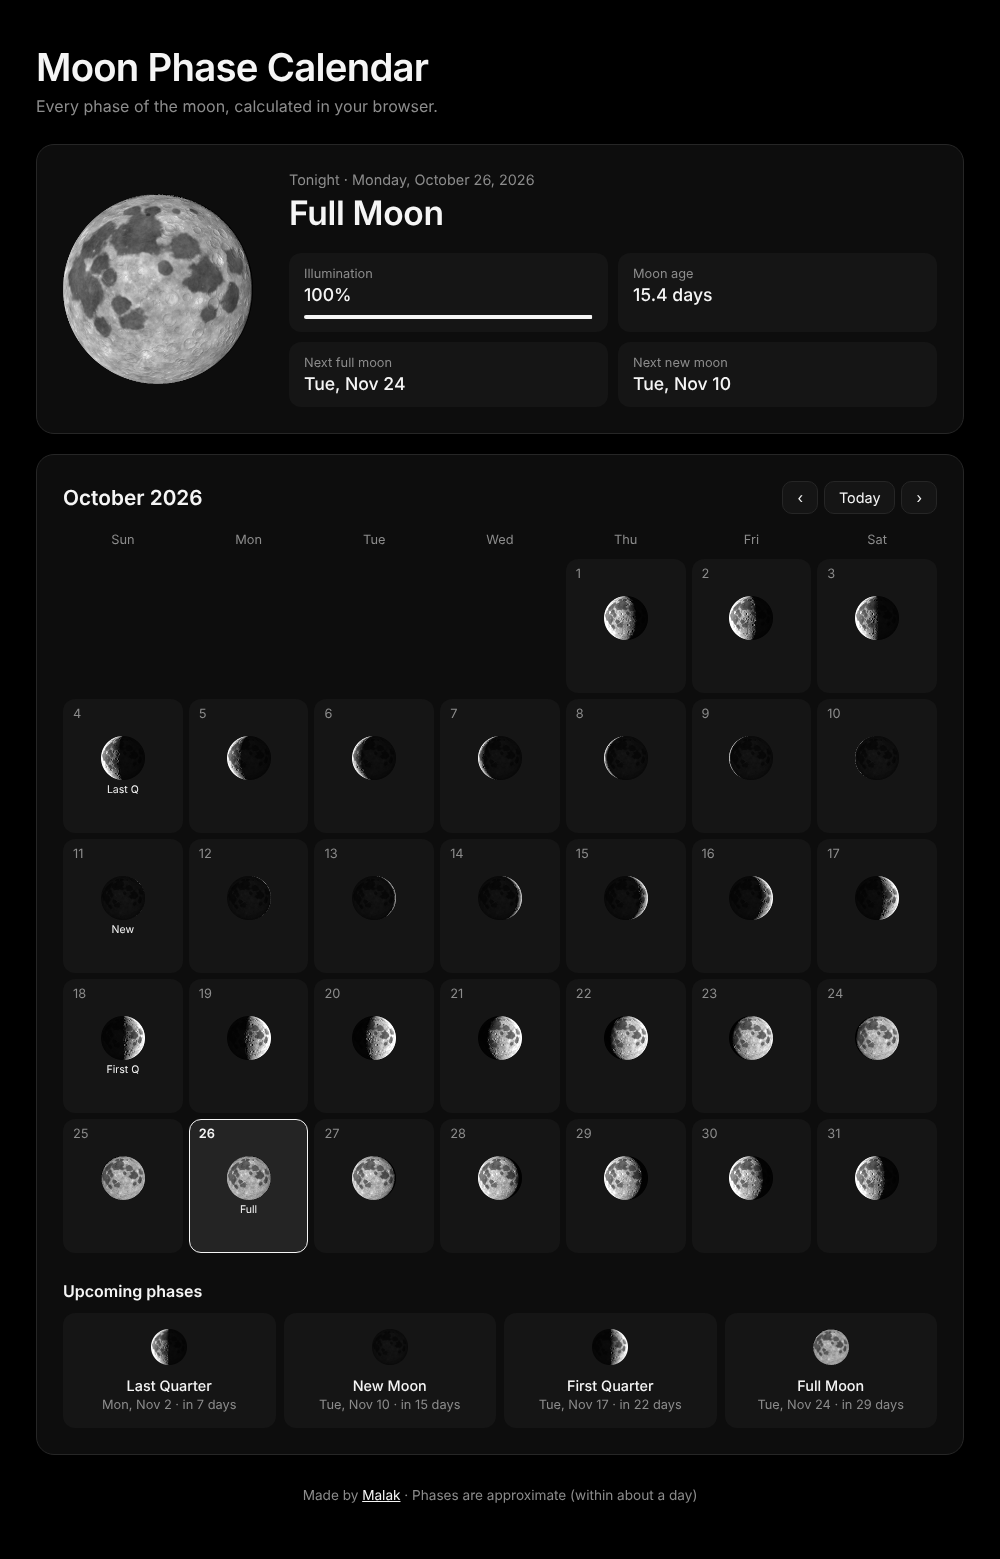
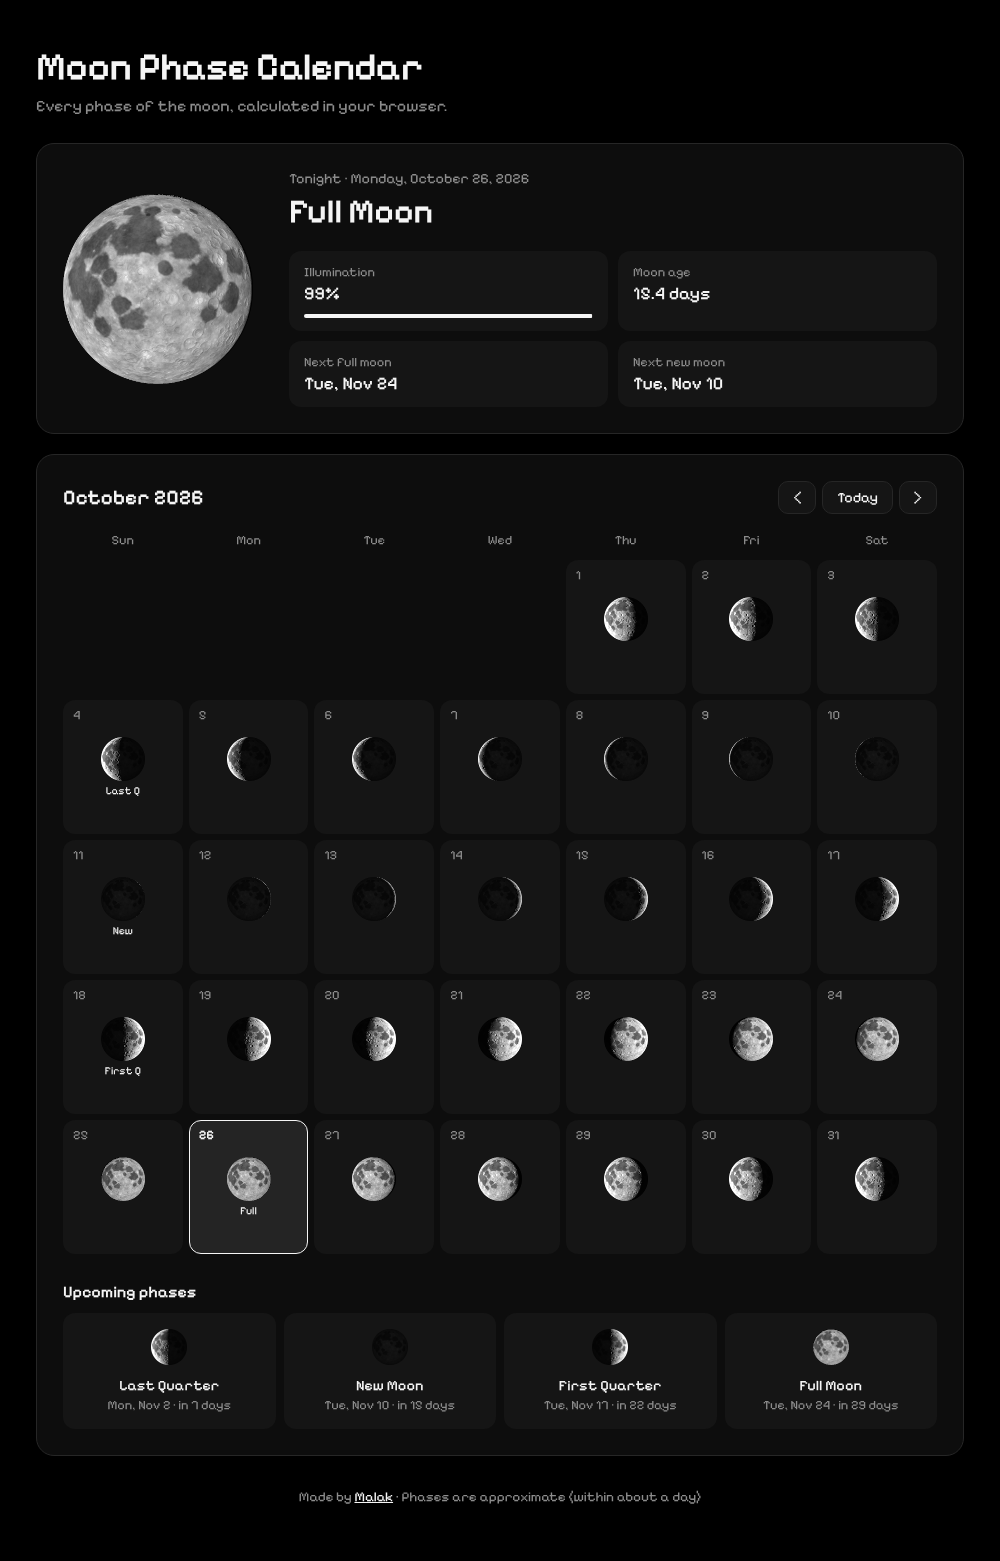
v1.1.0: pixel font, follows the user's clock (midnight, wake, time zone)
Claude-Session: https://claude.ai/code/session_01NMGxaikXEgU81ymDHPEkG5

diff --git a/widget.html b/widget.html
@@ -5,6 +5,12 @@
 <meta name="viewport" content="width=device-width, initial-scale=1.0">
 <title>Moon Phase</title>
 <style>
+  @font-face {
+    font-family: 'Pixelify Sans';
+    src: url('assets/fonts/PixelifySans.woff2') format('woff2');
+    font-weight: 400 700;
+    font-display: block;
+  }
   :root {
     --bg: #0b0b0b;
     --cell: #171717;
@@ -15,9 +21,9 @@
   * { box-sizing: border-box; margin: 0; padding: 0; }
   html, body { height: 100%; background: transparent; overflow: hidden; }
   body {
-    font-family: -apple-system, BlinkMacSystemFont, "Segoe UI", "Helvetica Neue", Arial, sans-serif;
+    font-family: 'Pixelify Sans', -apple-system, "Segoe UI", Arial, sans-serif;
     color: var(--text);
-    -webkit-font-smoothing: antialiased;
+    -webkit-font-smoothing: none;
     user-select: none;
     -webkit-user-select: none;
   }
@@ -33,28 +39,28 @@
     -webkit-app-region: drag;
   }
   .top { display: flex; justify-content: space-between; align-items: baseline; font-size: 12px; color: var(--muted); }
-  .top b { color: var(--text); font-weight: 600; font-size: 13px; }
+  .top b { color: var(--text); font-weight: 600; font-size: 15px; }
 
   .main { display: flex; align-items: center; gap: 16px; margin-top: 14px; }
   .main canvas { width: 96px; height: 96px; flex-shrink: 0; }
-  .phase { font-size: 19px; font-weight: 600; letter-spacing: -0.01em; line-height: 1.2; }
-  .illum { font-size: 13px; color: var(--muted); margin-top: 4px; }
+  .phase { font-size: 22px; font-weight: 600; letter-spacing: -0.01em; line-height: 1.2; }
+  .illum { font-size: 14px; color: var(--muted); margin-top: 4px; }
   .bar { height: 3px; border-radius: 3px; background: #2a2a2a; margin-top: 8px; overflow: hidden; }
   .bar > div { height: 100%; background: var(--text); }
 
   .rows { margin-top: 16px; display: grid; gap: 6px; }
-  .row { display: flex; justify-content: space-between; background: var(--cell); border-radius: 10px; padding: 8px 12px; font-size: 13px; }
+  .row { display: flex; justify-content: space-between; background: var(--cell); border-radius: 10px; padding: 8px 12px; font-size: 14px; }
   .row span:last-child { color: var(--muted); }
 
   .week { display: grid; grid-template-columns: repeat(7, 1fr); margin-top: 14px; text-align: center; }
-  .week div { font-size: 11px; color: var(--muted); }
+  .week div { font-size: 12px; color: var(--muted); }
   .week canvas { width: 22px; height: 22px; display: block; margin: 5px auto 0; }
   .week .today { color: var(--text); font-weight: 600; }
 
   .foot { margin-top: auto; padding-top: 12px; display: flex; justify-content: center; }
   .foot button {
     -webkit-app-region: no-drag;
-    font: inherit; font-size: 12px; color: var(--text); background: var(--cell);
+    font: inherit; font-size: 13px; color: var(--text); background: var(--cell);
     border: 1px solid var(--border); border-radius: 8px; padding: 5px 12px; cursor: pointer;
   }
   .foot button:hover { border-color: var(--muted); }
@@ -130,9 +136,33 @@ document.addEventListener('contextmenu', e => {
   if (window.moonWidget) { e.preventDefault(); window.moonWidget.showMenu(); }
 });
 
+// ---------- Keep in step with the user's own clock ----------
+// Everything above uses the computer's local date and time zone.
+const clockKey = () => {
+  const n = new Date();
+  return `${n.toDateString()}|${n.getTimezoneOffset()}|${Intl.DateTimeFormat().resolvedOptions().timeZone}`;
+};
+let lastKey = clockKey();
+
 render();
-setInterval(render, 10 * 60 * 1000);                    // refresh every 10 minutes
-document.addEventListener('visibilitychange', () => { if (!document.hidden) render(); });
+
+// Check every 30 seconds: a new day, a clock change, or a new time zone triggers a redraw
+setInterval(() => {
+  const key = clockKey();
+  if (key !== lastKey) { lastKey = key; render(); }
+}, 30 * 1000);
+
+// Redraw exactly at local midnight, then every night after
+function scheduleMidnight() {
+  const n = new Date();
+  const next = new Date(n.getFullYear(), n.getMonth(), n.getDate() + 1, 0, 0, 5);
+  setTimeout(() => { lastKey = clockKey(); render(); scheduleMidnight(); }, next - n);
+}
+scheduleMidnight();
+
+// Also refresh every 10 minutes (countdowns), and whenever the widget comes back into view
+setInterval(render, 10 * 60 * 1000);
+document.addEventListener('visibilitychange', () => { if (!document.hidden) { lastKey = clockKey(); render(); } });
 </script>
 </body>
 </html>

diff --git a/index.html b/index.html
@@ -6,6 +6,12 @@
 <title>Moon Phase Calendar</title>
 <meta name="description" content="See tonight's moon phase and a full monthly moon calendar, calculated right in your browser.">
 <style>
+  @font-face {
+    font-family: 'Pixelify Sans';
+    src: url('assets/fonts/PixelifySans.woff2') format('woff2');
+    font-weight: 400 700;
+    font-display: block;
+  }
   :root {
     --bg: #000000;
     --panel: #0d0d0d;
@@ -16,12 +22,12 @@
   }
   * { box-sizing: border-box; margin: 0; padding: 0; }
   body {
-    font-family: -apple-system, BlinkMacSystemFont, "Segoe UI", "Helvetica Neue", Arial, sans-serif;
+    font-family: 'Pixelify Sans', -apple-system, "Segoe UI", Arial, sans-serif;
     background: var(--bg);
     color: var(--text);
     min-height: 100vh;
     overflow-x: hidden;
-    -webkit-font-smoothing: antialiased;
+    -webkit-font-smoothing: none;
   }
   .wrap { max-width: 960px; margin: 0 auto; padding: 44px 16px 56px; }
 
@@ -238,6 +244,17 @@ document.addEventListener('keydown', e => {
 showDetails(new Date());
 renderCalendar();
 renderUpcoming();
+
+// Follow the user's own clock: when the day (or time zone) changes, move "today" along with it
+let lastDay = new Date().toDateString() + new Date().getTimezoneOffset();
+setInterval(() => {
+  const now = new Date(), key = now.toDateString() + now.getTimezoneOffset();
+  if (key === lastDay) return;
+  const wasOnToday = sameDay(selected, new Date(now.getTime() - DAY_MS)) || sameDay(selected, now);
+  lastDay = key;
+  if (wasOnToday) { selected = now; view = new Date(now.getFullYear(), now.getMonth(), 1); showDetails(now); }
+  renderCalendar(); renderUpcoming();
+}, 30 * 1000);
 </script>
 </body>
 </html>

diff --git a/main.js b/main.js
@@ -1,5 +1,5 @@
 // Moon Phase desktop widget for macOS and Windows (Electron).
-const { app, BrowserWindow, Tray, Menu, ipcMain, screen, shell, nativeImage } = require('electron');
+const { app, BrowserWindow, Tray, Menu, ipcMain, screen, shell, nativeImage, powerMonitor } = require('electron');
 const path = require('path');
 const fs = require('fs');
 
@@ -146,6 +146,11 @@ if (!app.requestSingleInstanceLock()) {
     }
     createTray();
     createWidget();
+
+    // When the computer wakes up or is unlocked, redraw with the current date and time zone
+    const refresh = () => { if (widget) widget.webContents.reload(); };
+    powerMonitor.on('resume', refresh);
+    powerMonitor.on('unlock-screen', refresh);
   });
 
   // Keep running in the tray when windows are closed

diff --git a/README.md b/README.md
@@ -28,6 +28,8 @@ Everything is calculated locally, with no internet, accounts or APIs needed.
 - A **7-night strip** showing how the moon will change this week
 - **Drag it anywhere** on your desktop, and it remembers where you put it
 - **Starts with your computer** (you can turn this off)
+- **Always on your own time:** switches to the new day's moon at midnight, refreshes when your computer wakes up, and follows you across time zones
+- **Pixel font** (Pixelify Sans) built in, so it works offline
 - Lives in the menu bar / system tray, with no Dock or taskbar clutter
 - Right-click the widget for options: keep on top, start at login, reset position, quit
 - **Open calendar** button for the full monthly view
@@ -75,6 +77,7 @@ The moon completes one cycle (new → full → new) every **29.53 days**, known 
 - **Electron**: turns the web page into a native Mac & Windows app
 - HTML, CSS and vanilla JavaScript, with no frameworks
 - Canvas API for drawing the moons pixel by pixel
+- Pixelify Sans font (SIL Open Font License)
 - Python (NumPy, SciPy, Pillow) to generate the moon surface
 - **GitHub Actions**: automatically builds the `.dmg` and `.exe` installers
 
